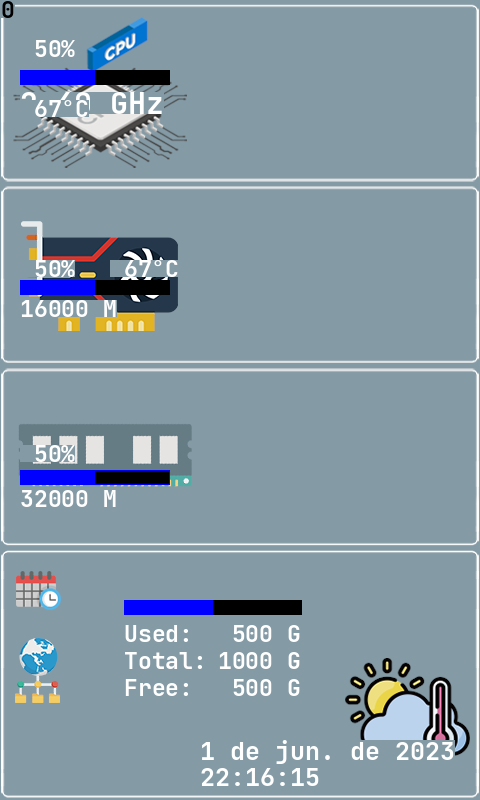
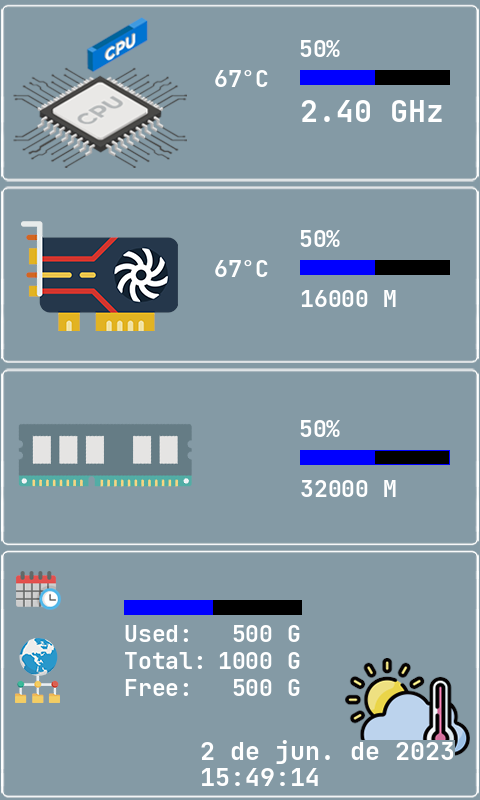
debug Hello

diff --git a/library/lcd/lcd_comm_rev_c.py b/library/lcd/lcd_comm_rev_c.py
@@ -197,7 +197,7 @@ class LcdCommRevC(LcdComm):
         if response == SubRevision.FIVEINCH.value:
             self.sub_revision = SubRevision.FIVEINCH
         else:
-            logger.warning("Display returned unknown sub-revision on Hello answer")
+            logger.warning("Display returned unknown sub-revision on Hello answer (%s)" % str(response))
 
         logger.debug("HW sub-revision: %s" % (str(self.sub_revision)))
 
